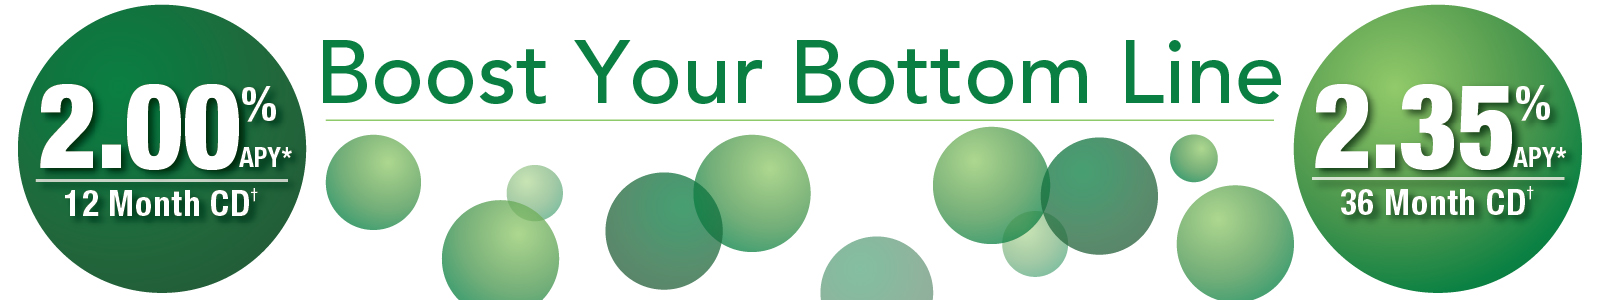
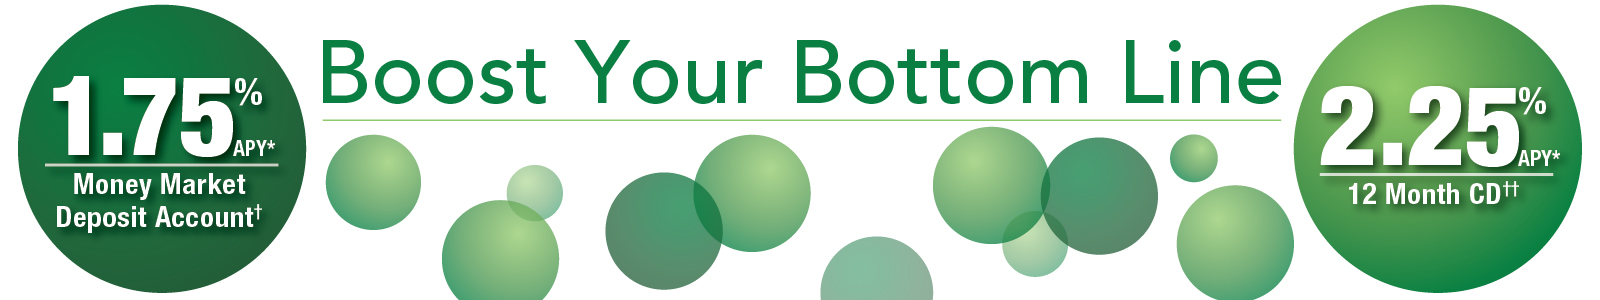
Update to CD / MM Promo

Changed region(s): [[0.0, 0.24, 0.1875, 0.78], [0.8125, 0.27, 1.0, 0.75]]

diff --git a/savings.html b/savings.html
@@ -132,14 +132,14 @@
                 <a class="anchor text-center" name="moneymarket"><h2>Money Market Accounts</h2></a>
               </div>
             </div><!-- row -->
-            <!-- <div class="row spacer">
+            <div class="row spacer">
               <div class="col-md-12">
                 <img class="picture" src="img/ave_web_banner1600x300.jpg">
               </div>
-            </div>-><!- row -->
-            <!-- <div class="row spacer">
-              <p class="small para-margin"><sup>*</sup>Annual Percentage Yield (APY) <sup>†</sup>Money Market Deposit Account: Promotional rate of 1.35% APY on balances up to $249,999.99 and .50% APY on balances $250,000.00 and over for new accounts effective as of 11/13/17 and guaranteed for the first 182 days after account opening. Promotional rate offered on $10,000 or more of new money not currently on deposit within last 30 days with CIBM Bank. Minimum opening deposit of $10,000.00.  After 182 Day introductory period, the account will be converted to the Personal or Business Money Market. The interest rate on your account is subject to change at any time. As of 11/13/17 Personal Money Market balances of $0.00-$9,999.99 (.08% APY); $10,000.00-$24,999.99 (.10% APY); $25,000.00-$49,999.99 (.13% APY); $50,000.00-$99,999.99 (.14% APY); $100,000.00 and above (.15% APY). Monthly fee $2.00 per debit if $1,000.00 minimum balance not maintained. As of 11/13/17 Business Money Market balances of $0.00-$9,999.99 (.08% APY); $10,000.00-$24,999.99 (.10% APY); $25,000.00-$49,999.99 (.13% APY); $50,000.00-$99,999.99 (.14% APY); $100,000.00 and above (.15% APY). Monthly fee $15.00 service charge if $5,000.00 minimum balance not maintained. Fees may reduce earnings. Accounts closed within 6 months of opening date subject to a $25.00 closing fee. <sup>††</sup>12 Month Certificate of Deposit & IRA: Promotional rate of 1.50% (APY) effective as of 11/13/17 and guaranteed for the term of the account. Offer limited to $10,000 or more of new money not currently on deposit within last 30 days with CIBM Bank. Minimum opening deposit of $2,500.00 and a maximum of $250,000.00. Withdrawals made prior to maturity may be subject to an early withdrawal penalty. Offer not available in combination with any other offer.</p>
-            </div>--><!-- row -->
+            </div><!-- row -->
+            <div class="row spacer">
+              <p class="small para-margin"><sup>*</sup>Annual Percentage Yield (APY) <sup>†</sup>Money Market Deposit Account: Promotional rate of 1.75% APY on balances up to $249,999.99 and .50% APY on balances $250,000.00 and over for new accounts effective as of 05/29/18 and guaranteed for the first 182 days after account opening. Promotional rate offered on $10,000.00 or more of new money not currently on deposit within last 30 days with CIBM Bank. Minimum opening deposit of $10,000.00. After 182 Day introductory period, the account will be converted to the Personal or Business Money Market. The interest rate is subject to change at any time. As of 05/22/18 Personal Money Market balances of $0.00-$9,999.99 (.08% APY); $10,000.00-$24,999.99 (.10% APY); $25,000.00-$49,999.99 (.13% APY); $50,000.00-$99,999.99 (.14% APY); $100,000.00 and above (.15% APY). Monthly fee $2.00 per debit if $1,000.00 minimum balance not maintained. As of 05/22/18 Business Money Market balances of $0.00-$9,999.99 (.08% APY); $10,000.00-$24,999.99 (.10% APY); $25,000.00-$49,999.99 (.13% APY); $50,000.00-$99,999.99 (.14% APY); $100,000.00 and above (.15% APY). Monthly fee $15.00 service charge if $5,000.00 minimum balance not maintained. Fees may reduce earnings. Accounts closed within 6 months of opening date subject to a $25.00 closing fee.  <sup>††</sup>12 Month Certificate of Deposit & IRA: Promotional rate of 2.25% (APY) effective as of 05/29/18 and guaranteed for the term of the account. Offer limited to $10,000.00 or more of new money not currently on deposit within last 30 days with CIBM Bank. Minimum opening deposit of $2,500.00 and a maximum of $250,000.00. Withdrawals made prior to maturity may be subject to an early withdrawal penalty. Offer not available in combination with any other offer..</p>
+            </div><!-- row -->
             <div class="row spacer">
               <div class="col-md-6">
                 <h2 class="anchor">Personal Money Market Accounts</h2>
@@ -189,14 +189,14 @@
                 <a class="anchor text-center" name="cd"><h2>Certificates of Deposit</h2></a>
               </div>
             </div><!-- row -->
-            <div class="row spacer">
+            <!-- <div class="row spacer">
               <div class="col-md-12">
                 <img src="img/boostcd_1600.jpg" alt="CD Offer" class="picture">
               </div>
-            </div><!-- row -->
-            <div class="row spacer">
+            </div> --><!-- row -->
+            <!-- <div class="row spacer">
               <p class="small para-margin"><sup>*</sup>Annual Percentage Yield (APY) <sup>†</sup>Promotional rates effective as of 5/15/18 and guaranteed for the term of the account. Offer limited to $10,000.00 or more of new money not currently on deposit within last 30 days with CIBM Bank. Minimum opening deposit of $2,500.00 and a maximum of $250,000.00. Withdrawals made prior to maturity may be subject to an early withdrawal penalty. Offer not available in combination with any other offer.</p>
-            </div>
+            </div> -->
             <div class="row spacer">
               <div class="col-md-6">
                 <p>Our certificates of deposit earn a competitive rate while providing the safety of FDIC insurance.</p>

diff --git a/index.html b/index.html
@@ -31,7 +31,7 @@
                         <!-- Wrapper for slides -->
                         <div class="carousel-inner">
                           <div class="item active">
-                            <a href="savings.html#cd"><img src="img/boostcd_car.jpg" alt="CD Offer"></a>
+                            <a href="savings.html#moneymarkete"><img src="img/boostcd_car.jpg" alt="CD Offer"></a>
                           </div>
                           <div class="item">
                               <a href="acceleration.html"><img src="img/accelerationcarousel-2.jpg" alt="Personal Banking"></a>
